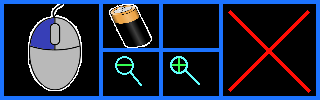
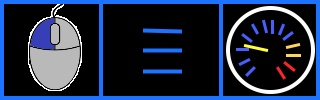
New menu added

Changed region(s): [[0.3125, 0.03, 1.0, 0.96], [0.5938, 0.75, 0.625, 0.84], [0.4375, 0.84, 0.4688, 0.87]]

diff --git a/samples/M5StackRemoteDisplay/RemoteControl.cs b/samples/M5StackRemoteDisplay/RemoteControl.cs
@@ -37,11 +37,14 @@ namespace Iot.Device.Ili934x.Samples
         private readonly BitmapImage _leftMouseMenuBar;
         private readonly BitmapImage _rightMouseMenuBar;
         private readonly BitmapImage _openMenu;
+        private readonly BitmapImage _zoomIn;
+        private readonly BitmapImage _zoomOut;
 
         private readonly ScreenCapture _capture;
         private readonly Arguments _commandLine;
 
-        private bool _menuMode;
+        private bool _overlayMenu;
+        private bool _nightMode;
         private float _left;
         private float _top;
         private float _scale;
@@ -52,7 +55,6 @@ namespace Iot.Device.Ili934x.Samples
         private IPointingDevice _clickSimulator;
         private NmeaTcpClient _tcpClient;
         private SentenceCache _cache;
-
         private AutoResetEvent _waitForClick;
         private List<NmeaDataSet> _dataSets;
         private int _selectedDataSet;
@@ -62,12 +64,15 @@ namespace Iot.Device.Ili934x.Samples
         private AutopilotController _autopilotController;
         private MessageRouter _messageRouter;
 
+        private List<MenuItem> _menuItems;
+        private MenuItem? _menuItemSelected;
+
         public RemoteControl(Chsc6440? touch, Ili9342 screen, M5ToughPowerControl? powerControl, IPointingDevice deviceSimulator, ScreenCapture capture, Arguments commandLine)
         {
             _touch = touch;
             _screen = screen;
             _powerControl = powerControl;
-            _menuMode = false;
+            _overlayMenu = false;
             _left = 0;
             _top = 0;
             _scale = 1.0f;
@@ -80,6 +85,10 @@ namespace Iot.Device.Ili934x.Samples
             _commandLine = commandLine;
             _dataSets = new List<NmeaDataSet>();
             _forceUpdate = true;
+            _menuItemSelected = null;
+            _menuItems = new List<MenuItem>();
+            _nightMode = false;
+            CreateMenuItems();
 
             _messageRouter = new MessageRouter(new LoggingConfiguration());
             _tcpClient = new NmeaTcpClient("TcpClient", _commandLine.NmeaServer, _commandLine.NmeaPort);
@@ -199,6 +208,8 @@ namespace Iot.Device.Ili934x.Samples
             _rightMouseMenuBar = BitmapImage.CreateFromFile("images/MenuBarRightMouse.png");
             _defaultMenuBar = BitmapImage.CreateFromFile("images/MenuBar.png");
             _openMenu = BitmapImage.CreateFromFile("images/OpenMenu.png");
+            _zoomIn = BitmapImage.CreateFromFile("images/ZoomPlus.png");
+            _zoomOut = BitmapImage.CreateFromFile("images/ZoomMinus.png");
 
             _tcpClient.StartDecode();
         }
@@ -209,48 +220,19 @@ namespace Iot.Device.Ili934x.Samples
             // Console.WriteLine($"Received sentence: {nmeaSentence.ToString()}");
         }
 
-        private void OnTouched(object o, Point point)
+        private void MirrorModeOnTouched(Point point)
         {
-            Console.WriteLine($"Touched screen at {point}");
-            _powerControl?.Beep(TimeSpan.FromMilliseconds(20));
-            _waitForClick.Set();
-            // For the coordinates here, see the MenuBar.png file
-            if (_menuMode)
+            if (_overlayMenu)
             {
                 if (point.Y >= 100)
                 {
-                    _menuMode = false;
+                    _overlayMenu = false;
                 }
                 else if (point.X > 222)
                 {
-                    _menuMode = false;
-                    _screenMode = ScreenMode.Mirror;
-                    Console.WriteLine("Changed to mirror mode");
-                }
-                else if (point.Y < 50 && point.X > 100 && point.X < 160)
-                {
-                    _screenMode = ScreenMode.Battery;
-                    Console.WriteLine("Changed to battery status mode");
-                    _mouseButtonsToPress = MouseButton.None;
-                    _menuMode = false;
-                }
-                else if (point.Y < 50 && point.X >= 160 && point.X < 220)
-                {
+                    _overlayMenu = false;
                     _screenMode = ScreenMode.NmeaValue;
-                    Console.WriteLine("Changed to NMEA display mode");
-                    _mouseButtonsToPress = MouseButton.None;
                     _forceUpdate = true;
-                    _menuMode = false;
-                }
-                else if (point.Y > 50 && point.X > 100 && point.X < 160)
-                {
-                    _scale /= 1.1f;
-                    Console.WriteLine($"Changed scale to {_scale}");
-                }
-                else if (point.Y > 50 && point.X > 160 && point.X < 220)
-                {
-                    _scale *= 1.1f;
-                    Console.WriteLine($"Changed scale to {_scale}");
                 }
                 else if (point.X < 100)
                 {
@@ -269,35 +251,93 @@ namespace Iot.Device.Ili934x.Samples
 
                     Console.WriteLine($"Mouse mode: {_mouseButtonsToPress}");
                 }
+                else
+                {
+                    _overlayMenu = false;
+                    _menuItemSelected = null;
+                    _screenMode = ScreenMode.MainMenu;
+                    _forceUpdate = true;
+                }
             }
             else
             {
-                if (point.X > _screen.ScreenWidth - 30 && point.Y < 30)
+                if (OpenOverlayClicked(point))
                 {
-                    _menuMode = true;
+                    _overlayMenu = true;
                     return;
                 }
 
-                if (_screenMode == ScreenMode.Mirror)
+                if (point.Y < _zoomOut.Height && point.X < _zoomOut.Width)
                 {
-                    if (_mouseButtonsToPress != MouseButton.None)
-                    {
-                        var pt = ToAbsoluteScreenPosition(point);
-                        _clickSimulator.MoveTo(pt.X, pt.Y);
-                        _clickSimulator.Click(_mouseButtonsToPress);
-                    }
+                    _scale = _scale / 1.5f;
                 }
-                else if (_screenMode == ScreenMode.NmeaValue)
+                else if (point.Y < _zoomOut.Height && point.X < 2 * _zoomOut.Width)
                 {
-                    if (point.X > _screen.ScreenWidth - 50)
+                    _scale = _scale * 1.5f;
+                }
+                else if (_mouseButtonsToPress != MouseButton.None)
+                {
+                    var pt = ToAbsoluteScreenPosition(point);
+                    _clickSimulator.MoveTo(pt.X, pt.Y);
+                    _clickSimulator.Click(_mouseButtonsToPress);
+                }
+            }
+        }
+
+        private bool OpenOverlayClicked(Point point)
+        {
+            return point.X > _screen.ScreenWidth - 30 && point.Y < 30;
+        }
+
+        private void OnTouched(object o, Point point)
+        {
+            Console.WriteLine($"Touched screen at {point}");
+            _powerControl?.Beep(TimeSpan.FromMilliseconds(20));
+            _waitForClick.Set();
+            // For the coordinates here, see the MenuBar.png file
+            if (_screenMode == ScreenMode.Mirror)
+            {
+                MirrorModeOnTouched(point);
+                return;
+            }
+            if (_screenMode == ScreenMode.NmeaValue)
+            {
+                if (OpenOverlayClicked(point))
+                {
+                    _screenMode = ScreenMode.Mirror;
+                    return;
+                }
+                if (point.X > _screen.ScreenWidth - 50)
+                {
+                    _selectedDataSet = (_selectedDataSet + 1) % _dataSets.Count;
+                    _forceUpdate = true;
+                }
+                else if (point.X < 50)
+                {
+                    _selectedDataSet = (_selectedDataSet) > 0 ? _selectedDataSet - 1 : _dataSets.Count - 1;
+                    _forceUpdate = true;
+                }
+            }
+
+            if (_screenMode == ScreenMode.Battery)
+            {
+                if (OpenOverlayClicked(point))
+                {
+                    _screenMode = ScreenMode.Mirror;
+                    return;
+                }
+            }
+
+            if (_screenMode == ScreenMode.MainMenu)
+            {
+                foreach (var item in _menuItems)
+                {
+                    if (item.Rectangle.Contains(point))
                     {
-                        _selectedDataSet = (_selectedDataSet + 1) % _dataSets.Count;
-                        _forceUpdate = true;
-                    }
-                    else if (point.X < 50)
-                    {
-                        _selectedDataSet = (_selectedDataSet) > 0 ? _selectedDataSet - 1 : _dataSets.Count - 1;
-                        _forceUpdate = true;
+                        _menuItemSelected = item;
+                        item.OnTouched();
+                        _menuItemSelected = null;
+                        return;
                     }
                 }
             }
@@ -361,6 +401,8 @@ namespace Iot.Device.Ili934x.Samples
         public void DecreaseBrightness()
         {
             _backLight = _backLight - ElectricPotential.FromMillivolts(200);
+            // Don't go down until the backlight switches off (won't be able to recover)
+            _backLight = UnitsNet.UnitMath.Clamp(_backLight, ElectricPotential.FromMillivolts(1800), ElectricPotential.FromMillivolts(3300));
             if (_powerControl != null)
             {
                 _powerControl.SetLcdVoltage(_backLight);
@@ -392,6 +434,8 @@ namespace Iot.Device.Ili934x.Samples
             }
 
             TimeSpan minTimeBetweenFrames = TimeSpan.FromMilliseconds(100);
+            _menuItemSelected = null;
+            CreateMenuItems();
             while (!abort)
             {
                 Stopwatch sw = Stopwatch.StartNew();
@@ -409,16 +453,20 @@ namespace Iot.Device.Ili934x.Samples
                         minTimeBetweenFrames = TimeSpan.FromSeconds(1);
                         break;
                     case ScreenMode.NmeaValue:
-                        DrawNmeaValue(backBuffer, _menuMode || _forceUpdate);
+                        DrawNmeaValue(backBuffer, _forceUpdate);
                         minTimeBetweenFrames = TimeSpan.FromMilliseconds(500);
                         _forceUpdate = false;
+                        break;
+                    case ScreenMode.MainMenu:
+                        DrawMenuEntries(backBuffer, _menuItemSelected);
+                        minTimeBetweenFrames = TimeSpan.FromMilliseconds(2000);
                         break;
                     default:
                         _screen.ClearScreen();
                         break;
                 }
 
-                if (_menuMode)
+                if (_overlayMenu)
                 {
                     BitmapImage bm = _defaultMenuBar;
                     if (_mouseButtonsToPress == MouseButton.Left)
@@ -432,7 +480,7 @@ namespace Iot.Device.Ili934x.Samples
 
                     backBuffer.GetDrawingApi().DrawImage(bm, 0, 0);
                 }
-                else
+                else if (_screenMode != ScreenMode.MainMenu)
                 {
                     // Draw the "open menu here" icon over the top right of the screen.
                     backBuffer.GetDrawingApi().DrawImage(_openMenu, new Rectangle(0, 0, _openMenu.Width, _openMenu.Height), new Rectangle(_screen.ScreenWidth - _openMenu.Width, 0, _openMenu.Width, _openMenu.Height));
@@ -453,9 +501,35 @@ namespace Iot.Device.Ili934x.Samples
                 if (_screen is Ili9341 ili)
                 {
                     fps = ili.Fps;
+                    Console.Write($"\rFPS: {fps:F1}     ");
                 }
-                Console.WriteLine($"\rFPS: {fps}");
                 _waitForClick.WaitOne(minTimeBetweenFrames);
+            }
+        }
+
+        private void CreateMenuItems()
+        {
+            _menuItems.Clear();
+            int itemHeight = 36;
+            _menuItems.Add(new MenuItem(() => _nightMode ? "Clear Night mode" : "Set Night Mode", new Rectangle(0, 0, _screen.ScreenWidth - 1, itemHeight), false, () => { _nightMode = !_nightMode; }));
+            _menuItems.Add(new MenuItem(() => "Increase Brightness", new Rectangle(0, itemHeight, _screen.ScreenWidth - 1, itemHeight), false, IncreaseBrightness));
+            _menuItems.Add(new MenuItem(() => "Decrease Brightness", new Rectangle(0, 2 * itemHeight, _screen.ScreenWidth - 1, itemHeight), false, DecreaseBrightness));
+            _menuItems.Add(new MenuItem(() => "Exit Menu", new Rectangle(0, _screen.ScreenHeight - itemHeight - 1, _screen.ScreenWidth - 1, itemHeight), false, () => { _screenMode = ScreenMode.Mirror; }));
+        }
+
+        private void DrawMenuEntries(BitmapImage backBuffer, MenuItem? selectedItem)
+        {
+            backBuffer.Clear();
+            foreach (var item in _menuItems)
+            {
+                string font = GetDefaultFontName();
+                backBuffer.GetDrawingApi().DrawRectangle(item.Rectangle, Color.FromArgb(67, 188, 228));
+                if (selectedItem == item)
+                {
+                    backBuffer.GetDrawingApi().FillRectangle(item.Rectangle, Color.LightYellow);
+                }
+
+                backBuffer.GetDrawingApi().DrawText(item.Text(), font, item.Rectangle.Height - 6, Color.Blue, new Point(0, item.Rectangle.Y + 1));
             }
         }
 
@@ -510,6 +584,8 @@ namespace Iot.Device.Ili934x.Samples
                 top = pt.Y;
 
                 buffer.GetDrawingApi().DrawImage(resizedBitmap, -pt.X, -pt.Y);
+                buffer.GetDrawingApi().DrawImage(_zoomOut, 0, 0);
+                buffer.GetDrawingApi().DrawImage(_zoomIn, _zoomOut.Width, 0);
                 bmp.Dispose();
             }
         }
@@ -519,7 +595,15 @@ namespace Iot.Device.Ili934x.Samples
             var data = _dataSets[_selectedDataSet];
             if (data.Update(_cache, 1E-2) || force)
             {
-                targetBuffer.Clear(Color.White);
+                if (_nightMode)
+                {
+                    targetBuffer.Clear(Color.Black);
+                }
+                else
+                {
+                    targetBuffer.Clear(Color.White);
+                }
+
                 using var g = targetBuffer.GetDrawingApi();
                 string font = GetDefaultFontName();
                 g.DrawText(data.Value, font, 110, Color.Blue, new Point(20, 30));
@@ -596,6 +680,10 @@ namespace Iot.Device.Ili934x.Samples
             _autopilotController.Dispose();
             _tcpClient.StopDecode();
             _tcpClient.Dispose();
+        }
+
+        private sealed record MenuItem(Func<string> Text, Rectangle Rectangle, bool Selected, Action OnTouched)
+        {
         }
     }
 }

diff --git a/src/devices/SkiaSharpAdapter/SkiaSharpGraphicsExtensions.cs b/src/devices/SkiaSharpAdapter/SkiaSharpGraphicsExtensions.cs
@@ -36,6 +36,38 @@ namespace Iot.Device.Graphics.SkiaSharpAdapter
         }
 
         /// <summary>
+        /// Draws a non-filled rectangle to the target
+        /// </summary>
+        /// <param name="graphics">The graphics object</param>
+        /// <param name="rectangle">The extent of the rectangle</param>
+        /// <param name="color">The color</param>
+        /// <param name="strokeWidth">Width of the border</param>
+        public static void DrawRectangle(this IGraphics graphics, Rectangle rectangle, Color color, int strokeWidth = 1)
+        {
+            var canvas = GetCanvas(graphics);
+            var paint = new SKPaint();
+            paint.Color = new SKColor((uint)color.ToArgb());
+            paint.StrokeWidth = strokeWidth;
+            paint.Style = SKPaintStyle.Stroke;
+            canvas.DrawRect(rectangle.X, rectangle.Y, rectangle.Width, rectangle.Height, paint);
+        }
+
+        /// <summary>
+        /// Draws a filled rectangle to the target
+        /// </summary>
+        /// <param name="graphics">The graphics object</param>
+        /// <param name="rectangle">The extent of the rectangle</param>
+        /// <param name="fillColor">The color</param>
+        public static void FillRectangle(this IGraphics graphics, Rectangle rectangle, Color fillColor)
+        {
+            var canvas = GetCanvas(graphics);
+            var paint = new SKPaint();
+            paint.Color = new SKColor((uint)fillColor.ToArgb());
+            paint.Style = SKPaintStyle.Fill;
+            canvas.DrawRect(rectangle.X, rectangle.Y, rectangle.Width, rectangle.Height, paint);
+        }
+
+        /// <summary>
         /// Draws text to the bitmap
         /// </summary>
         public static void DrawText(this IGraphics graphics, string text, string fontFamilyName, int size, Color color, Point position)

diff --git a/samples/M5StackRemoteDisplay/ScreenMode.cs b/samples/M5StackRemoteDisplay/ScreenMode.cs
@@ -15,5 +15,6 @@ namespace Iot.Device.Ili934x.Samples
         Mirror,
         Battery,
         NmeaValue,
+        MainMenu
     }
 }
